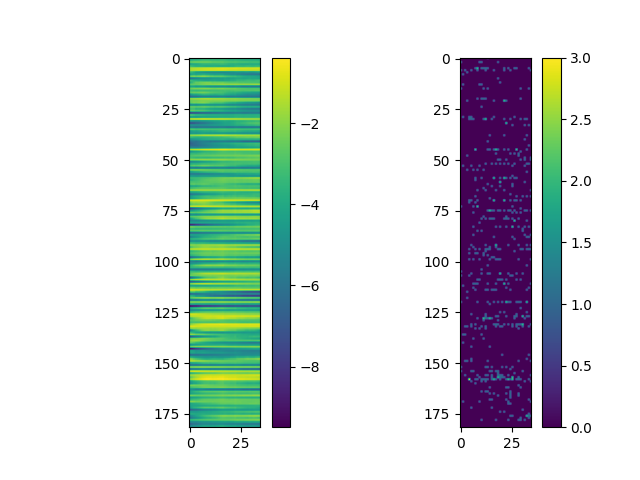
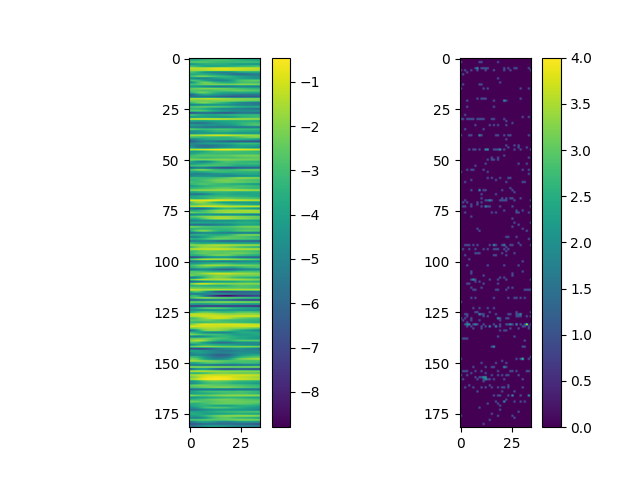
k shot callback working in single fewshot run

diff --git a/lfads_torch/post_run/fewshot_analysis.py b/lfads_torch/post_run/fewshot_analysis.py
@@ -112,6 +112,7 @@ class FewshotTrainTest(pl.Callback):
             ratio: float = 0.3,
             seed: int = 0,
             log_every_n_epochs=20,
+            fewshot_trainer_epochs: int = 50,
             #decoding_cv_sweep=False,
         ):
         """Initializes the callback.
@@ -120,23 +121,20 @@ class FewshotTrainTest(pl.Callback):
         ----------
         log_every_n_epochs : int, optional
             The frequency with which to plot and log, by default 100
-        decoding_cv_sweep : bool, optional
-            Whether to run a cross-validated hyperparameter sweep to
-            find optimal regularization values, by default False
         """
         super().__init__()
         self.log_every_n_epochs = log_every_n_epochs
         # self.decoding_cv_sweep = decoding_cv_sweep
         self.smth_metrics = {}
 
-        self.fewshot_head_model = fewshot_head_model
+        self.fewshot_head_model_partial = fewshot_head_model
         self.fewshot_trainer = fewshot_trainer
         self.K = K
         self.ratio = ratio
         self.seed = seed
         self.fewshot_dataloaders = None
 
-    def my_setup(self, trainer, pl_module):
+    def my_setup(self, trainer, pl_module, initialise_head: bool = True):
         datamodule = trainer.datamodule
         model = pl_module
 
@@ -177,13 +175,13 @@ class FewshotTrainTest(pl.Callback):
             TensorDataset(self.X_val, self.Y_val),
             batch_size=100
         )
-
-        self.fewshot_head_model = self.fewshot_head_model(
-            train_factors.shape[-1],
-            train_fewshot_neurons.shape[-1]
-        )
-
         self.fewshot_dataloaders = (fewshot_dataloader_train, fewshot_dataloader_val)
+
+        if initialise_head:
+            self.fewshot_head_model = self.fewshot_head_model_partial(
+                train_factors.shape[-1],
+                train_fewshot_neurons.shape[-1]
+            )
 
     def on_validation_epoch_end(self, trainer, pl_module):
         """Logs best score k shot score at the end of the validation epoch.
@@ -203,18 +201,27 @@ class FewshotTrainTest(pl.Callback):
             print('Module has no attribute "model_latents_train".')
             return
 
-
         if self.fewshot_dataloaders is None:
-            self.my_setup(trainer,pl_module)
+            self.my_setup(trainer, pl_module, initialise_head=True)
+        else:
+            self.my_setup(trainer, pl_module, initialise_head=True)
+
+
 
         fewshot_train, fewshot_val = self.fewshot_dataloaders
         fewshot_head_model = self.fewshot_head_model
+
+
+
         print('Training few shot head...')
         self.fewshot_trainer.fit(
             model=fewshot_head_model,
             train_dataloaders = fewshot_train,
             val_dataloaders = fewshot_val,
         )
+
+        self.fewshot_trainer.fit_loop.max_epochs += 40
+
         print('Done.\nTesting few shot head...')
         valid_kshot_smoothing = bits_per_spike(fewshot_head_model(self.X_val), self.Y_val)
 

diff --git a/illustrations.py b/illustrations.py
@@ -1,0 +1,91 @@
+import matplotlib.pyplot as plt
+from mpl_toolkits.mplot3d import Axes3D
+from mpl_toolkits.mplot3d.art3d import Poly3DCollection
+import numpy as np
+
+
+def cuboid_data2(o, size=(1, 1, 1)):
+    X = [[[0, 1, 0], [0, 0, 0], [1, 0, 0], [1, 1, 0]],
+         [[0, 0, 0], [0, 0, 1], [1, 0, 1], [1, 0, 0]],
+         [[1, 0, 1], [1, 0, 0], [1, 1, 0], [1, 1, 1]],
+         [[0, 0, 1], [0, 0, 0], [0, 1, 0], [0, 1, 1]],
+         [[0, 1, 0], [0, 1, 1], [1, 1, 1], [1, 1, 0]],
+         [[0, 1, 1], [0, 0, 1], [1, 0, 1], [1, 1, 1]]]
+    X = np.array(X).astype(float)
+    for i in range(3):
+        X[:, :, i] *= size[i]
+    X += np.array(o)
+    return X
+
+
+def plotCubeAt2(positions, sizes=None, colors=None, **kwargs):
+    if not isinstance(colors, (list, np.ndarray)): colors = ["C0"] * len(positions)
+    if not isinstance(sizes, (list, np.ndarray)): sizes = [(1, 1, 1)] * len(positions)
+    g = []
+    for p, s, c in zip(positions, sizes, colors):
+        g.append(cuboid_data2(p, size=s))
+    return Poly3DCollection(np.concatenate(g),
+                            facecolors=np.repeat(colors, 6), **kwargs)
+
+
+def generate_plots_loop():
+
+    positions = [(0,0,0),(0,0,1),(0,-0.5,0),(0,-0.5,1)]
+    sizes = [(2,1.2,1),(2,1.2,0.5),(2,0.5,1),(2,0.5,0.5)]
+    colors = ["crimson","crimson","crimson","C2"]
+
+    for i in range(1,len(positions)+1):
+        # print(list(zip(*list(zip(positions,sizes,colors))[:i])))
+        generate_plot(
+            # *zip(*list(zip(positions,sizes,colors))[:i]),
+            positions[:i],
+            sizes[:i],
+            colors[:i],
+            filename=f'nlb_breakup_{i}.png',
+            title='NLB co-smoothing'
+        )
+
+    #######
+
+    sizes[1] = (2,0.2,0.5)
+
+    for i in range(1,len(positions)+1):
+        # print(list(zip(*list(zip(positions,sizes,colors))[:i])))
+        generate_plot(
+            # *zip(*list(zip(positions,sizes,colors))[:i]),
+            positions[:i],
+            sizes[:i],
+            colors[:i],
+            filename=f'fewshot_breakup_{i}.png',
+            title='few-shot co-smoothing'
+        )
+
+def generate_plot(positions, sizes, colors,filename='nlb_breakup.png',title=None):
+    fig = plt.figure()
+    ax = fig.add_subplot(projection='3d')
+
+    if title:
+        ax.set_title(title)
+
+    # fig = plt.figure()
+    # ax = fig.gca(projection='3d')
+
+    pc = plotCubeAt2(positions, sizes, colors=colors, edgecolor="k",alpha=0.3)
+    ax.add_collection3d(pc)
+    ax.set_xlabel('time')
+    ax.set_ylabel('trials')
+    ax.set_zlabel('neurons')
+    ax.set_xlim([-.2, 2.2])
+    ax.set_ylim([-.7, 1.2])
+    ax.set_zlim([-.2, 1.7])
+
+    # ax.set_zlim([-3, 9])
+    ax.set_aspect('equal')
+    #ax.axis(False)
+    ax.set_xticks([])
+    ax.set_yticks([])
+    ax.set_zticks([])
+    fig.tight_layout()
+    fig.savefig(filename,dpi=200)
+
+generate_plots_loop()

diff --git a/lfads_torch/datamodules_fewshot.py b/lfads_torch/datamodules_fewshot.py
@@ -42,6 +42,9 @@ def split_datadict(data_dict, split_keep_first, num_new_heldout_neurons=None):
                 [encod_neurons, new_heldout_neurons], axis=2
             )
             updates_dict[fewshot_key] = fewshot_neurons
+    if 'psth' in data_dict.keys():
+        num_new_recon_neurons = updates_dict['train_recon_data'].shape[-1] #num_recon_neurons - num_new_heldout_neurons
+        updates_dict['psth'] = data_dict['psth'][...,:num_new_recon_neurons]
     data_dict.update(updates_dict)
 
     # updates_dict = {}

diff --git a/scripts/run_single_fewshot.py b/scripts/run_single_fewshot.py
@@ -9,7 +9,7 @@ from paths import runs_path
 # ---------- OPTIONS -----------
 PROJECT_STR = "lfads-torch-example"
 DATASET_STR = "nlb_mc_maze"
-RUN_TAG = datetime.now().strftime("%y%m%d") + "_exampleSingle"
+RUN_TAG = datetime.now().strftime("%y%m%d_%H%M%S") + "_exampleSingle"
 RUN_DIR = Path(runs_path) / PROJECT_STR / DATASET_STR / RUN_TAG
 OVERWRITE = True
 # ------------------------------

diff --git a/lfads_torch/run_model.py b/lfads_torch/run_model.py
@@ -39,6 +39,8 @@ def run_model(
     ):
         config = hydra.compose(config_name=config_path.name, overrides=overrides)
 
+    print(OmegaConf.to_yaml(config))
+
     # Avoid flooding the console with output during multi-model runs
     if config.ignore_warnings:
         logging.getLogger("pytorch_lightning").setLevel(logging.WARNING)
